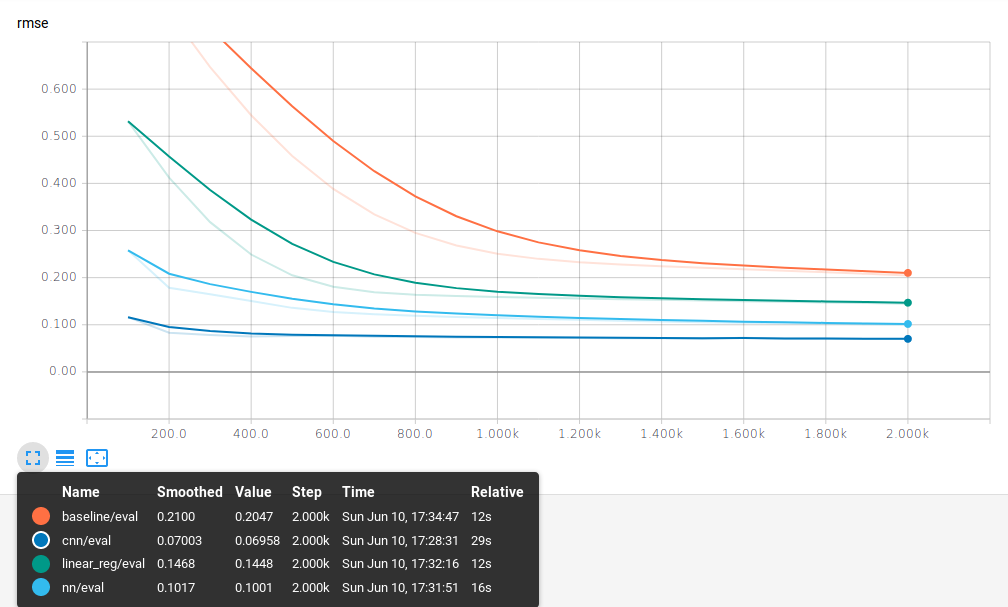
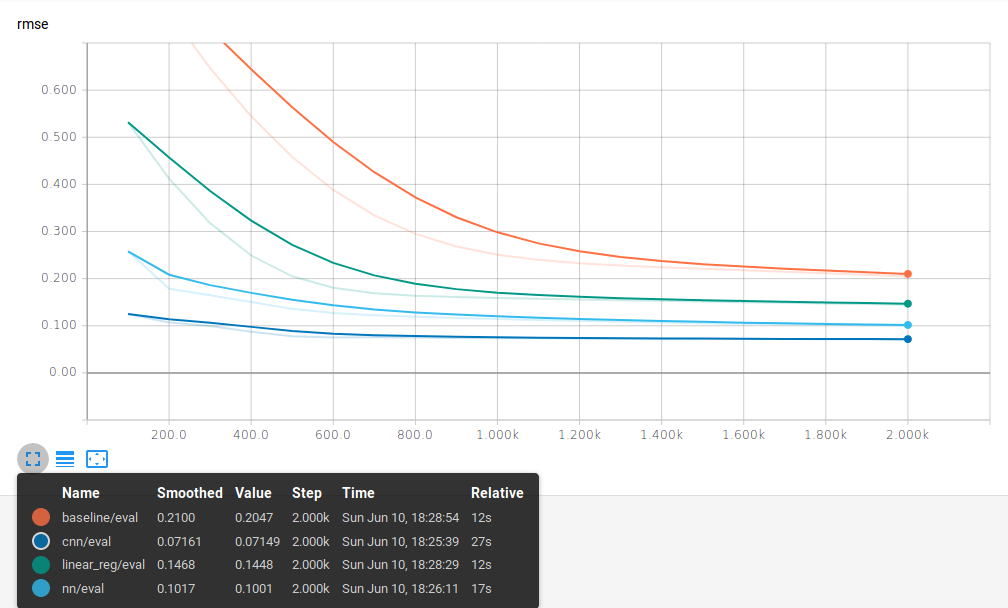
Tune CNN hyper-parameters

diff --git a/python/custom_models.py b/python/custom_models.py
@@ -70,7 +70,7 @@ def cnn(inputs):
         strides=2)
     dense = tf.layers.dense(
         tf.reshape(pool2, [-1, 7*7*64]),
-        units=256,
+        units=64,
         activation=tf.nn.relu)
     logits = tf.layers.dense(
         dense,
@@ -85,7 +85,7 @@ if __name__ == '__main__':
     inputs = tf.random_uniform([1, 28*28])
     models = [baseline, linear_reg, nn, cnn]
     for model in models:
-        logits = model(inputs, True)
+        logits = model(inputs)
         param_stats = tf.profiler.profile(
                 tf.get_default_graph(),
                 options=tf.profiler.ProfileOptionBuilder

diff --git a/README.md b/README.md
@@ -35,7 +35,7 @@ the discrepancy between the reconstructed energy and the generated value.
   </tr>
   <tr>
     <td><a href="https://github.com/jruizvar/ml-physics/blob/regression/python/custom_models.py#L48-L79">Convolutional NN</a></td>
-    <td>864183</td>
+    <td>261687</td>
   </tr>
 </table>
 
@@ -72,14 +72,13 @@ The good performance of the neural networks at minimizing the
   </tr>
   <tr>
     <td><a href="https://github.com/jruizvar/ml-physics/blob/regression/python/custom_models.py#L48-L79">Convolutional NN</a></td>
-    <td>0.070</td>
-    <td>0.038</td>
-    <td>0.040</td>
+    <td>0.071</td>
+    <td>0.039</td>
+    <td>0.034</td>
   </tr>
 </table>
 
-In the scenario with 20 GeV threshold the shallow neural networks presents the minimum error.
-Otherwise, the convolutional neural network outperforms all other models.
+In all scenarios the convolutional neural network outperforms the other models.
 
 ## Learning Curves
 The evolution of the [RMSE](python/custom_estimator.py#L58) is calculated for the validation sample.
